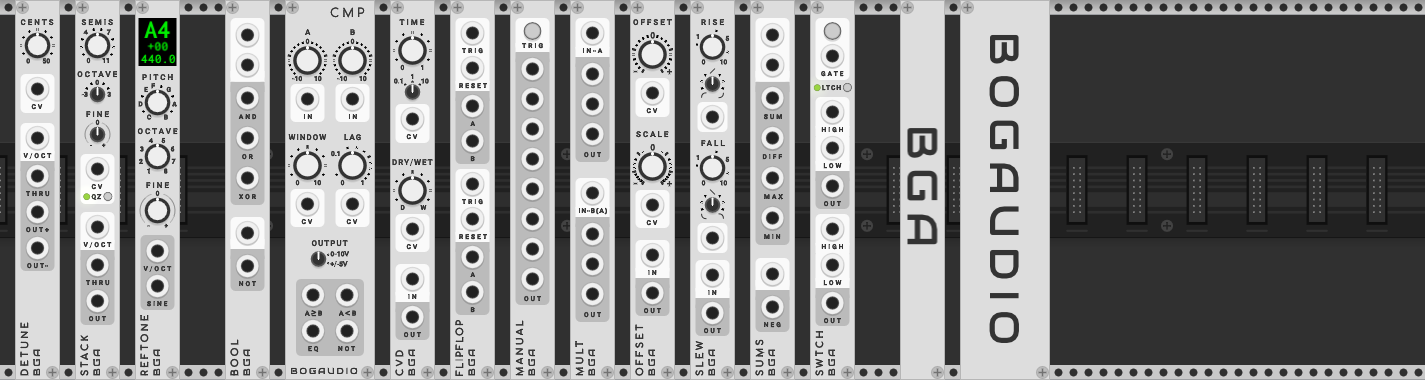
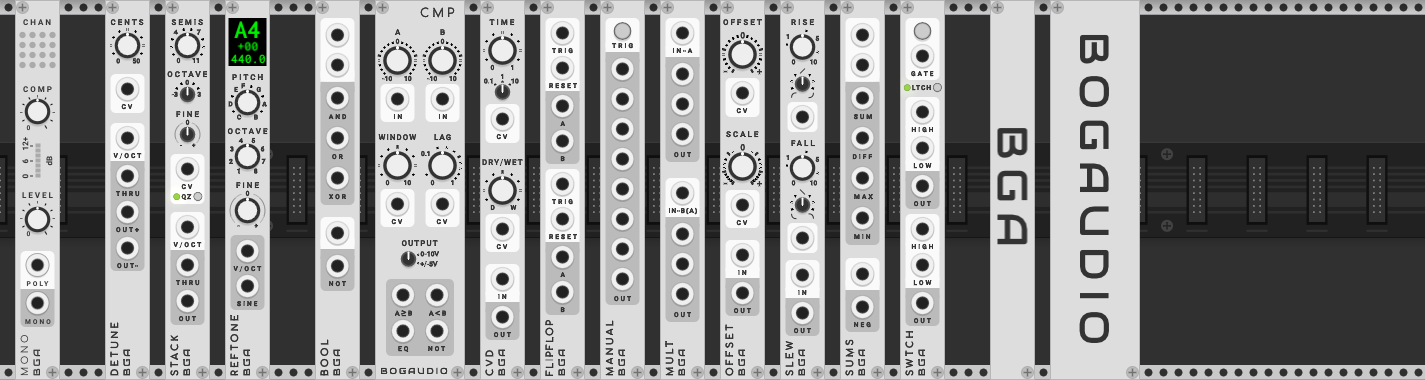
Update screens and README for MONO.

diff --git a/scripts/make_screenshots.rb b/scripts/make_screenshots.rb
@@ -1,6 +1,6 @@
 #!/usr/bin/env ruby
 
-# To generate per-modules screenshots, in Rack dir: ./Rack -d -p 1
+# To generate per-modules screenshots, in Rack dir: ./Rack -d -t 1
 
 screens = [
   {
@@ -31,7 +31,7 @@ screens = [
     file: 'modules4.png',
     crop: false,
     rows: [
-      ['Detune', 'Stack', 'Reftone', '-', 'Bool', 'Cmp', 'CVD', 'FlipFlop', 'Manual', 'Mult', 'Offset', 'Slew', 'Sums', 'Switch', '-', 'Blank3', 'Blank6']
+      ['Mono', '-', 'Detune', 'Stack', 'Reftone', '-', 'Bool', 'Cmp', 'CVD', 'FlipFlop', 'Manual', 'Mult', 'Offset', 'Slew', 'Sums', 'Switch', '-', 'Blank3', 'Blank6']
     ]
   },
 
@@ -109,7 +109,7 @@ screens = [
     file: 'pitch.png',
     crop: true,
     rows: [
-      ['Detune', 'Stack', 'Reftone']
+      ['Mono', '-', 'Detune', 'Stack', 'Reftone']
     ]
   },
   {

diff --git a/README.md b/README.md
@@ -10,7 +10,7 @@ Modules for [VCV Rack](https://github.com/VCVRack/Rack), an open-source Eurorack
   - [Noise/Random, Sample and Hold](#random)
   - [Sequential Switches and Sequencers](#sequencers)
   - [Visualizers](#visualizers)
-  - [Pitch CV Utilities](#pitch)
+  - [Polyphony and Pitch CV Utilities](#pitch)
   - [Other Utilities](#utilities)
   - [Miscellaneous](#misc)
 
@@ -283,7 +283,7 @@ The RECT inputs expects a bipolar (+/-5V) CV, which is added to the RECTIFY knob
 
 Note: AM/RM is calibrated to expect +/-5V, 10V peak-to-peak signals (i.e. the output of a typical oscillator).  A modulator signal with a negative value in excess of -5V will be affected by the rectifier circuit even if the RECTIFY is zero.  To avoid this effect, you may need to attenuate a hot signal you wish to use as the modulator.
 
-#### PRESSOR
+#### <a name="pressor"></a> PRESSOR
 
 PRESSOR is a stereo [compressor](https://en.wikipedia.org/wiki/Dynamic_range_compression) and [noise gate](https://en.wikipedia.org/wiki/Noise_gate) with many controls and a sidechain input.  A compressor attenuates signals louder than a threshold level; a noise gate attenuates signals quieter than a threshold level.
 
@@ -408,11 +408,17 @@ An eight-channel, 42HP version of ANALYZER, with edge-to-edge-screen type of des
 
 A stereo signal level visualizer/meter.  The L channel is sent to both displays if if nothing is patched to R.  Inputs to L and R are copied to the L and R outputs.
 
-### <a name="pitch"></a> Pitch CV Utilities
+### <a name="pitch"></a> Polyphony and Pitch CV Utilities
 
-Utilities that process pitch CVs (1 volt / octave), for controlling the pitch of oscillators.
+Utilities related to polyphony, and for processing pitch CVs (1 volt / octave CVs, for controlling the pitch of oscillators).
 
-![Pitch utilities screenshot](doc/www/pitch.png)
+![Polyphony and pitch utilities screenshot](doc/www/pitch.png)
+
+#### MONO
+
+MONO mixes down the channels of a polyphonic cable to a single-channel mono output.  It is an alternative to the SUM module that comes with VCV Rack, but adds an onboard compressor, to even out the level differences when only a few, or many, channels on the incoming are sounding.  The COMP control sets the amount of compression; at zero there is no effect and the behavior of this module is essentially equivalent to Rack's SUM.  As with SUM, the LEVEL control simply attenuates the output.  The output, post-LEVEL, is soft-clipped at about +/-12V.
+
+Those with a discerning ear may prefer to set COMP to zero (or use Rack's SUM), and then patch into <a href="#pressor">PRESSOR</a>, for more control over the compression effect.
 
 #### DETUNE
 
